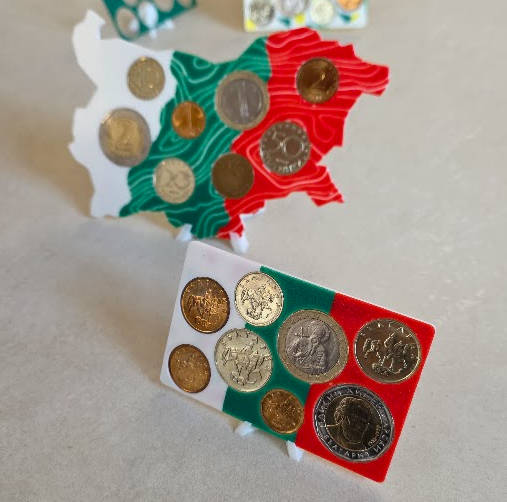
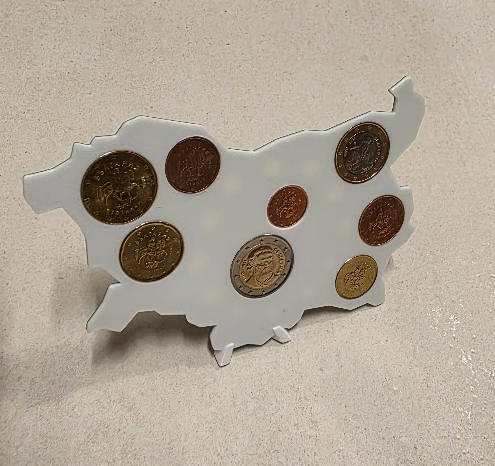
Refactor code structure for improved readability and maintainability

diff --git a/src/app/products-page/products-page.component.ts b/src/app/products-page/products-page.component.ts
@@ -75,10 +75,20 @@ export class ProductsPageComponent {
     },
     {
       id: 5,
-      name: 'Вариант 5: Персонализирани Български или правоъгълни карти',
-      description: 'Персонализирани карти - вие решавате дизайна, формата на картата, дали да има контурна снимка или държавно знаме отпред или отзад. Небето е границата!',
+      name: 'Вариант 5: Европейски съюз Българска карта чисто синьо',
+      description: 'България карта с дизайн на Европейския съюз - син фон с жълти звезди.',
       frontImage: '/assets/real-images/bg-cards/variant-5-front.jpg',
       backImage: '/assets/real-images/bg-cards/variant-5-back.jpg',
+      hasOldCoins: true,
+      hasEuroCoins: true,
+      showFront: true
+    },
+    {
+      id: 6,
+      name: 'Вариант 6: Персонализирани Български или правоъгълни карти',
+      description: 'Персонализирани карти - вие решавате дизайна, формата на картата, дали да има контурна снимка или държавно знаме отпред или отзад. Небето е границата!',
+      frontImage: '/assets/real-images/bg-cards/variant-10-front.jpg',
+      backImage: '/assets/real-images/bg-cards/variant-10-back.jpg',
       hasOldCoins: false,
       hasEuroCoins: false,
       showFront: true,
